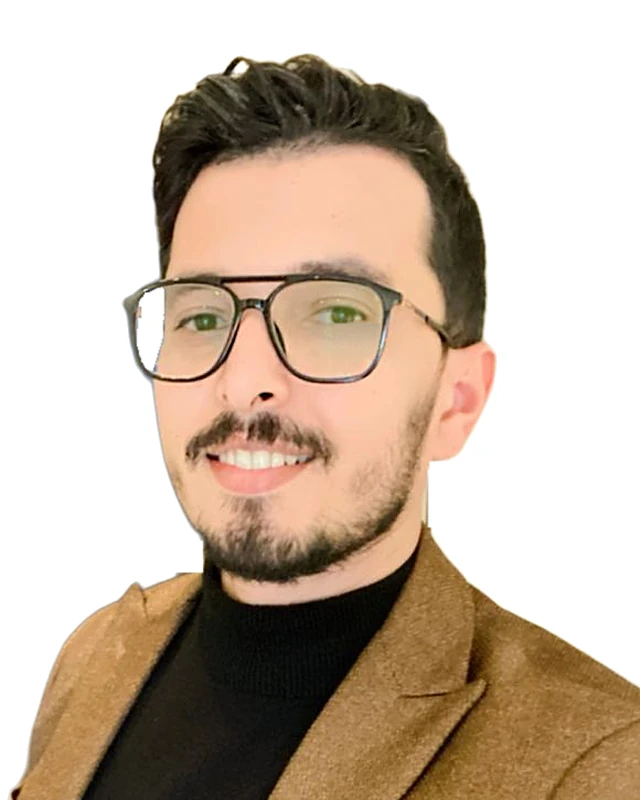
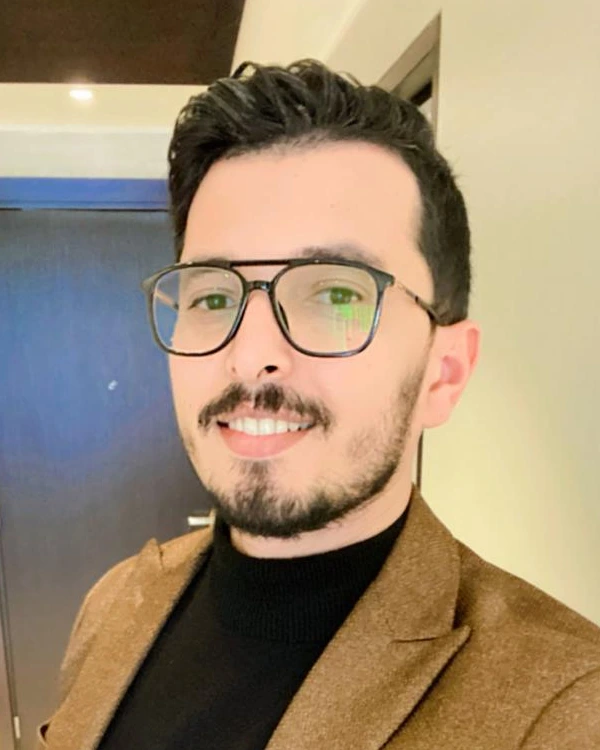
Update profile photo

diff --git a/index.html b/index.html
@@ -200,7 +200,7 @@ footer{padding-block:0 40px;color:var(--muted);font:12px/1.5 var(--f-mono);displ
       </div>
     </div>
     <div class="idcard">
-      <div class="photo"><img src="photo.webp" width="640" height="800" decoding="async" alt="Portrait de Mohieddine Ghannem"><span class="tag">// Tunis · UTC+1</span></div>
+      <div class="photo"><img src="photo.webp?v=3" width="600" height="750" decoding="async" alt="Portrait de Mohieddine Ghannem"><span class="tag">// Tunis · UTC+1</span></div>
 <pre class="code" aria-label="C# object describing the developer"><span class="k">var</span> me = <span class="k">new</span> <span class="k">Developer</span>
 {
     Name  = <span class="s">"Mohieddine Ghannem"</span>,
